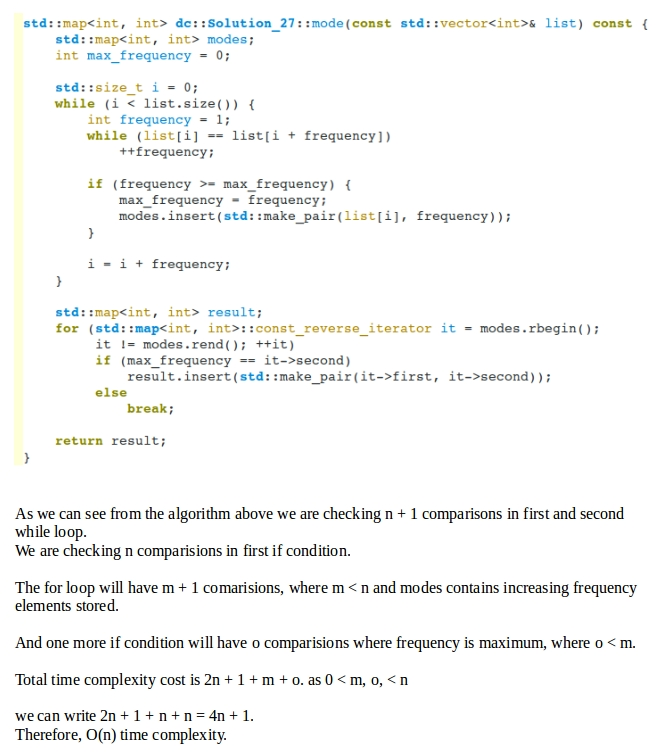
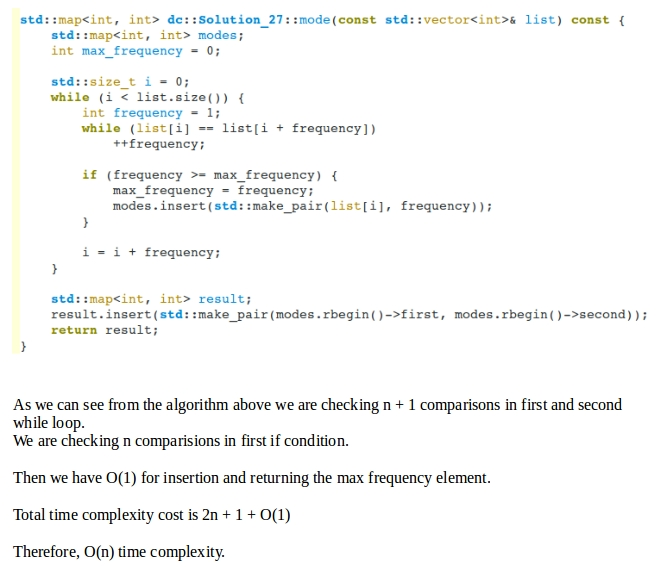
Adding solution 28

diff --git a/Chapter_3_Algorithms/3.3_Complexity_Of_Algorithms/Exercises/repo/source/test/src/TestSuite.cpp b/Chapter_3_Algorithms/3.3_Complexity_Of_Algorithms/Exercises/repo/source/test/src/TestSuite.cpp
@@ -47,7 +47,8 @@ void dc::TestSuite::m_initialize_test_cases_dictionary() {
     m_test_cases_dictionary[17] = &TestSuite::m_test_solution_17;
     m_test_cases_dictionary[25] = &TestSuite::m_test_solution_25;
     m_test_cases_dictionary[26] = &TestSuite::m_test_solution_26;
-    m_test_cases_dictionary[27] = &TestSuite::m_test_solution_27;    
+    m_test_cases_dictionary[27] = &TestSuite::m_test_solution_27;
+    m_test_cases_dictionary[28] = &TestSuite::m_test_solution_28;    
 }
 
 void dc::TestSuite::m_execute(ptrFunc function) {
@@ -315,6 +316,34 @@ void dc::TestSuite::m_test_solution_26() {
 }
 
 void dc::TestSuite::m_test_solution_27() {
+    utility::maths::Maths<int> maths;
+    utility::algorithms::sort::MergeSort<int> sort;
+
+    const int n = 100;
+    const int min = 1;
+    const int max = 100;
+
+    std::vector<int> list = maths.random_vector(n, min, max);
+    printf("-------------------------------------- List of Random number -------------------------\n");
+    for (std::size_t i = 0; i < list.size(); ++i)
+        printf("%d ", list[i]);
+    printf("\n-------------------------------------- List of Random number -------------------------\n");
+
+    sort.sort(list);
+
+    printf("----------------------------------------- Sorted List  --------------------------------\n");
+    for (std::size_t i = 0; i < list.size(); ++i)
+        printf("%d ", list[i]);
+    printf("\n----------------------------------------- Sorted List  --------------------------------\n");    
+
+    discrete_mathematics::chapter_3::Solution_27 solution;
+    const std::map<int, int> modes = solution.mode(list);
+    printf("------------------------------- Highest frequency emement ------------------------------\n");
+    printf("[%d] has [%d] frequency\n", modes.begin()->first, modes.begin()->second);
+    printf("------------------------------- Highest frequency emements ------------------------------\n");
+}
+
+void dc::TestSuite::m_test_solution_28() {
     utility::maths::Maths<int> maths;
     utility::algorithms::sort::MergeSort<int> sort;
 

diff --git a/Chapter_3_Algorithms/3.3_Complexity_Of_Algorithms/Exercises/repo/source/source/src/Solution_28.cpp b/Chapter_3_Algorithms/3.3_Complexity_Of_Algorithms/Exercises/repo/source/source/src/Solution_28.cpp
@@ -1,14 +1,14 @@
-#include "Solution_27.h"
+#include "Solution_28.h"
 #include <stack>
 #include <cstdio>
 
 namespace dc = discrete_mathematics::chapter_3;
 
-dc::Solution_27::Solution_27() {}
+dc::Solution_28::Solution_28() {}
 
-dc::Solution_27::~Solution_27() {}
+dc::Solution_28::~Solution_28() {}
 
-std::map<int, int> dc::Solution_27::mode(const std::vector<int>& list) const {
+std::map<int, int> dc::Solution_28::mode(const std::vector<int>& list) const {
     std::map<int, int> modes;
     int max_frequency = 0;
 
@@ -27,6 +27,12 @@ std::map<int, int> dc::Solution_27::mode(const std::vector<int>& list) const {
     }
 
     std::map<int, int> result;
-    result.insert(std::make_pair(modes.rbegin()->first, modes.rbegin()->second));
+    for (std::map<int, int>::const_reverse_iterator it = modes.rbegin();
+         it != modes.rend(); ++it)
+         if (max_frequency == it->second)
+             result.insert(std::make_pair(it->first, it->second));
+         else
+             break;
+             
     return result;
 }

diff --git a/Chapter_3_Algorithms/3.3_Complexity_Of_Algorithms/Exercises/repo/source/source/inc/Solution_28.h b/Chapter_3_Algorithms/3.3_Complexity_Of_Algorithms/Exercises/repo/source/source/inc/Solution_28.h
@@ -1,0 +1,30 @@
+#ifndef DISCRETE_MATHEMATICS_CHAPTER_3_COMPLEXITY_OF_ALGORITHMS_SOLUTION_28_H_
+#define DISCRETE_MATHEMATICS_CHAPTER_3_COMPLEXITY_OF_ALGORITHMS_SOLUTION_28_H_
+
+/*
+  Chapter 3: Complexity Of Algorithms
+  Discrete Mathematics and it's applications
+  Kenneth H. Rosen
+
+  Solution for exercise 28
+
+  Rakesh Kumar, cpp.rakesh(at)gmail.com
+  Date: Feb 19th, 2017
+ */
+
+#include <map>
+#include <vector>
+
+namespace discrete_mathematics {
+    namespace chapter_3 {
+        class Solution_28 {
+        public:
+            Solution_28();
+            ~Solution_28();
+
+            std::map<int, int> mode(const std::vector<int>& list) const;
+        };
+    };
+};
+
+#endif // DISCRETE_MATHEMATICS_CHAPTER_3_COMPLEXITY_OF_ALGORITHMS_SOLUTION_28_H_

diff --git a/Chapter_3_Algorithms/3.3_Complexity_Of_Algorithms/Exercises/repo/source/test/inc/TestSuite.h b/Chapter_3_Algorithms/3.3_Complexity_Of_Algorithms/Exercises/repo/source/test/inc/TestSuite.h
@@ -48,7 +48,8 @@ namespace discrete_mathematics {
             void m_test_solution_17();
             void m_test_solution_25();
             void m_test_solution_26();
-            void m_test_solution_27();            
+            void m_test_solution_27();
+            void m_test_solution_28();            
         };
     };
 };

diff --git a/Chapter_3_Algorithms/3.3_Complexity_Of_Algorithms/Exercises/repo/source/test/inc/AllHeaders.h b/Chapter_3_Algorithms/3.3_Complexity_Of_Algorithms/Exercises/repo/source/test/inc/AllHeaders.h
@@ -21,5 +21,6 @@
 #include "Solution_25.h"
 #include "Solution_26.h"
 #include "Solution_27.h"
+#include "Solution_28.h"
 
 #endif // DISCRETE_MATHEMATICS_CHAPTER_3_COMPLEXITY_OF_ALGORITHMS_ALL_HEADERS_H_

diff --git a/Chapter_3_Algorithms/3.3_Complexity_Of_Algorithms/Exercises/repo/source/test/src/Main.cpp b/Chapter_3_Algorithms/3.3_Complexity_Of_Algorithms/Exercises/repo/source/test/src/Main.cpp
@@ -5,6 +5,7 @@
 int main() {
     discrete_mathematics::chapter_3::TestSuite suite;
     suite.run(27);
+    suite.run(28);
     //suite.run_all();
     
     return 0;

diff --git a/Chapter_3_Algorithms/3.3_Complexity_Of_Algorithms/Exercises/Solution.md b/Chapter_3_Algorithms/3.3_Complexity_Of_Algorithms/Exercises/Solution.md
@@ -300,3 +300,14 @@ Yes it is a optimal soltution.
 ![solution 27](https://github.com/cpp-rakesh/DiscreteMathematicsAndItsApplications/blob/master/Chapter_3_Algorithms/3.3_Complexity_Of_Algorithms/Exercises/repo/images/solution_27.jpg)
 
 
+
+![problem 28](https://github.com/cpp-rakesh/DiscreteMathematicsAndItsApplications/blob/master/Chapter_3_Algorithms/3.3_Complexity_Of_Algorithms/Exercises/repo/images/problem_28.jpg)
+###Solution
+
+[solution 28 (.h)](https://github.com/cpp-rakesh/DiscreteMathematicsAndItsApplications/tree/master/Chapter_3_Algorithms/3.3_Complexity_Of_Algorithms/Exercises/repo/source/source/inc/Solution_28.h)
+
+[solution 28 (.cpp)](https://github.com/cpp-rakesh/DiscreteMathematicsAndItsApplications/tree/master/Chapter_3_Algorithms/3.3_Complexity_Of_Algorithms/Exercises/repo/source/source/src/Solution_28.cpp)
+
+![solution 28](https://github.com/cpp-rakesh/DiscreteMathematicsAndItsApplications/blob/master/Chapter_3_Algorithms/3.3_Complexity_Of_Algorithms/Exercises/repo/images/solution_28.jpg)
+
+
